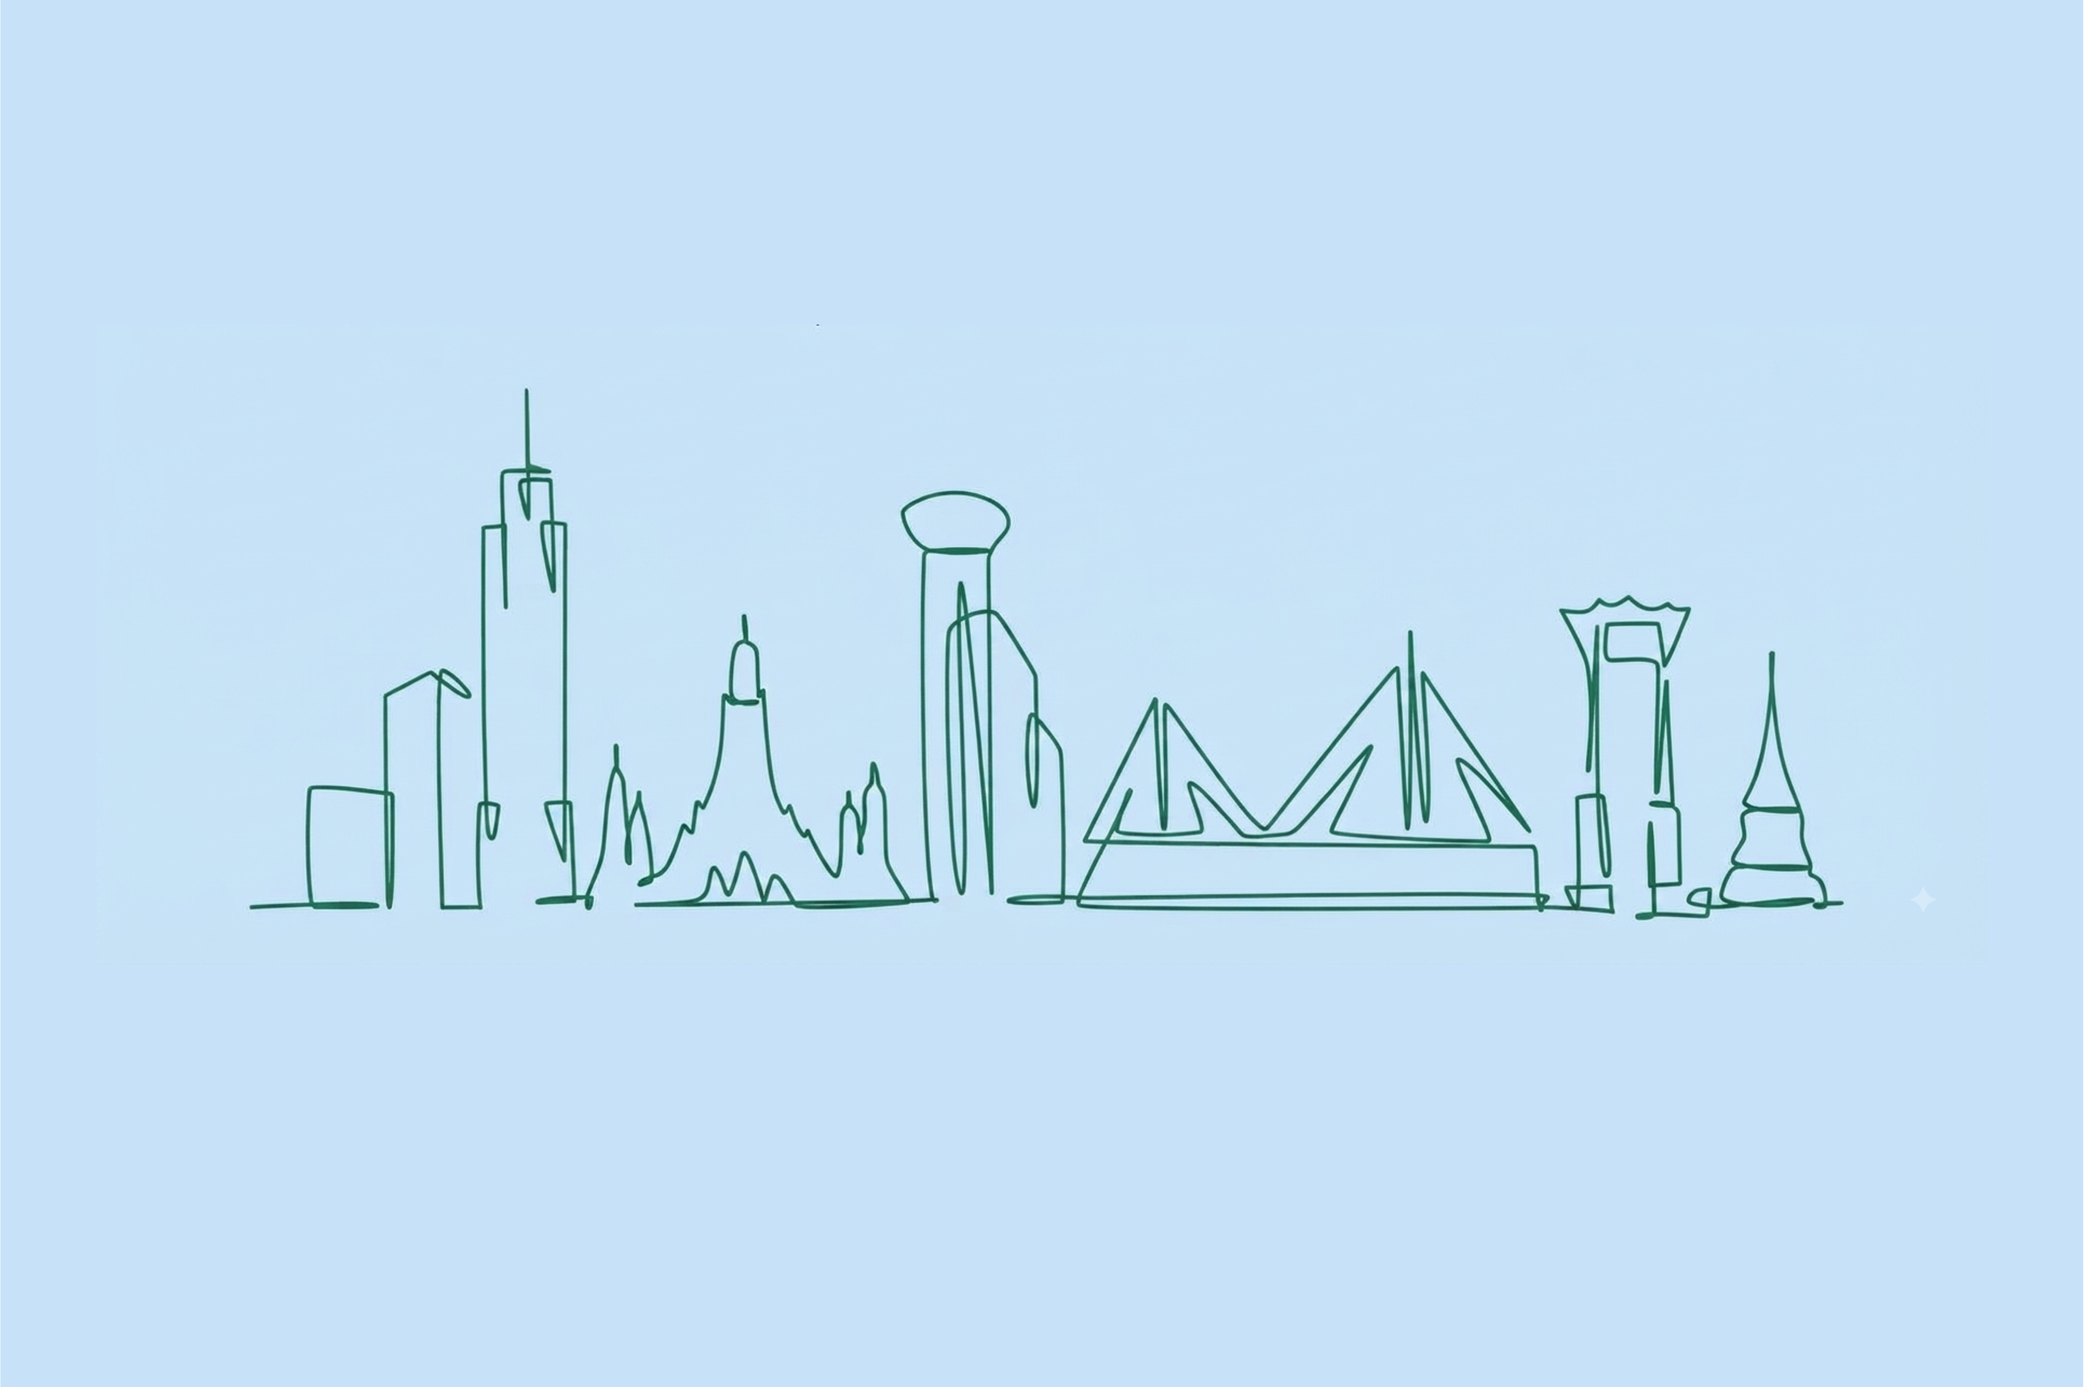
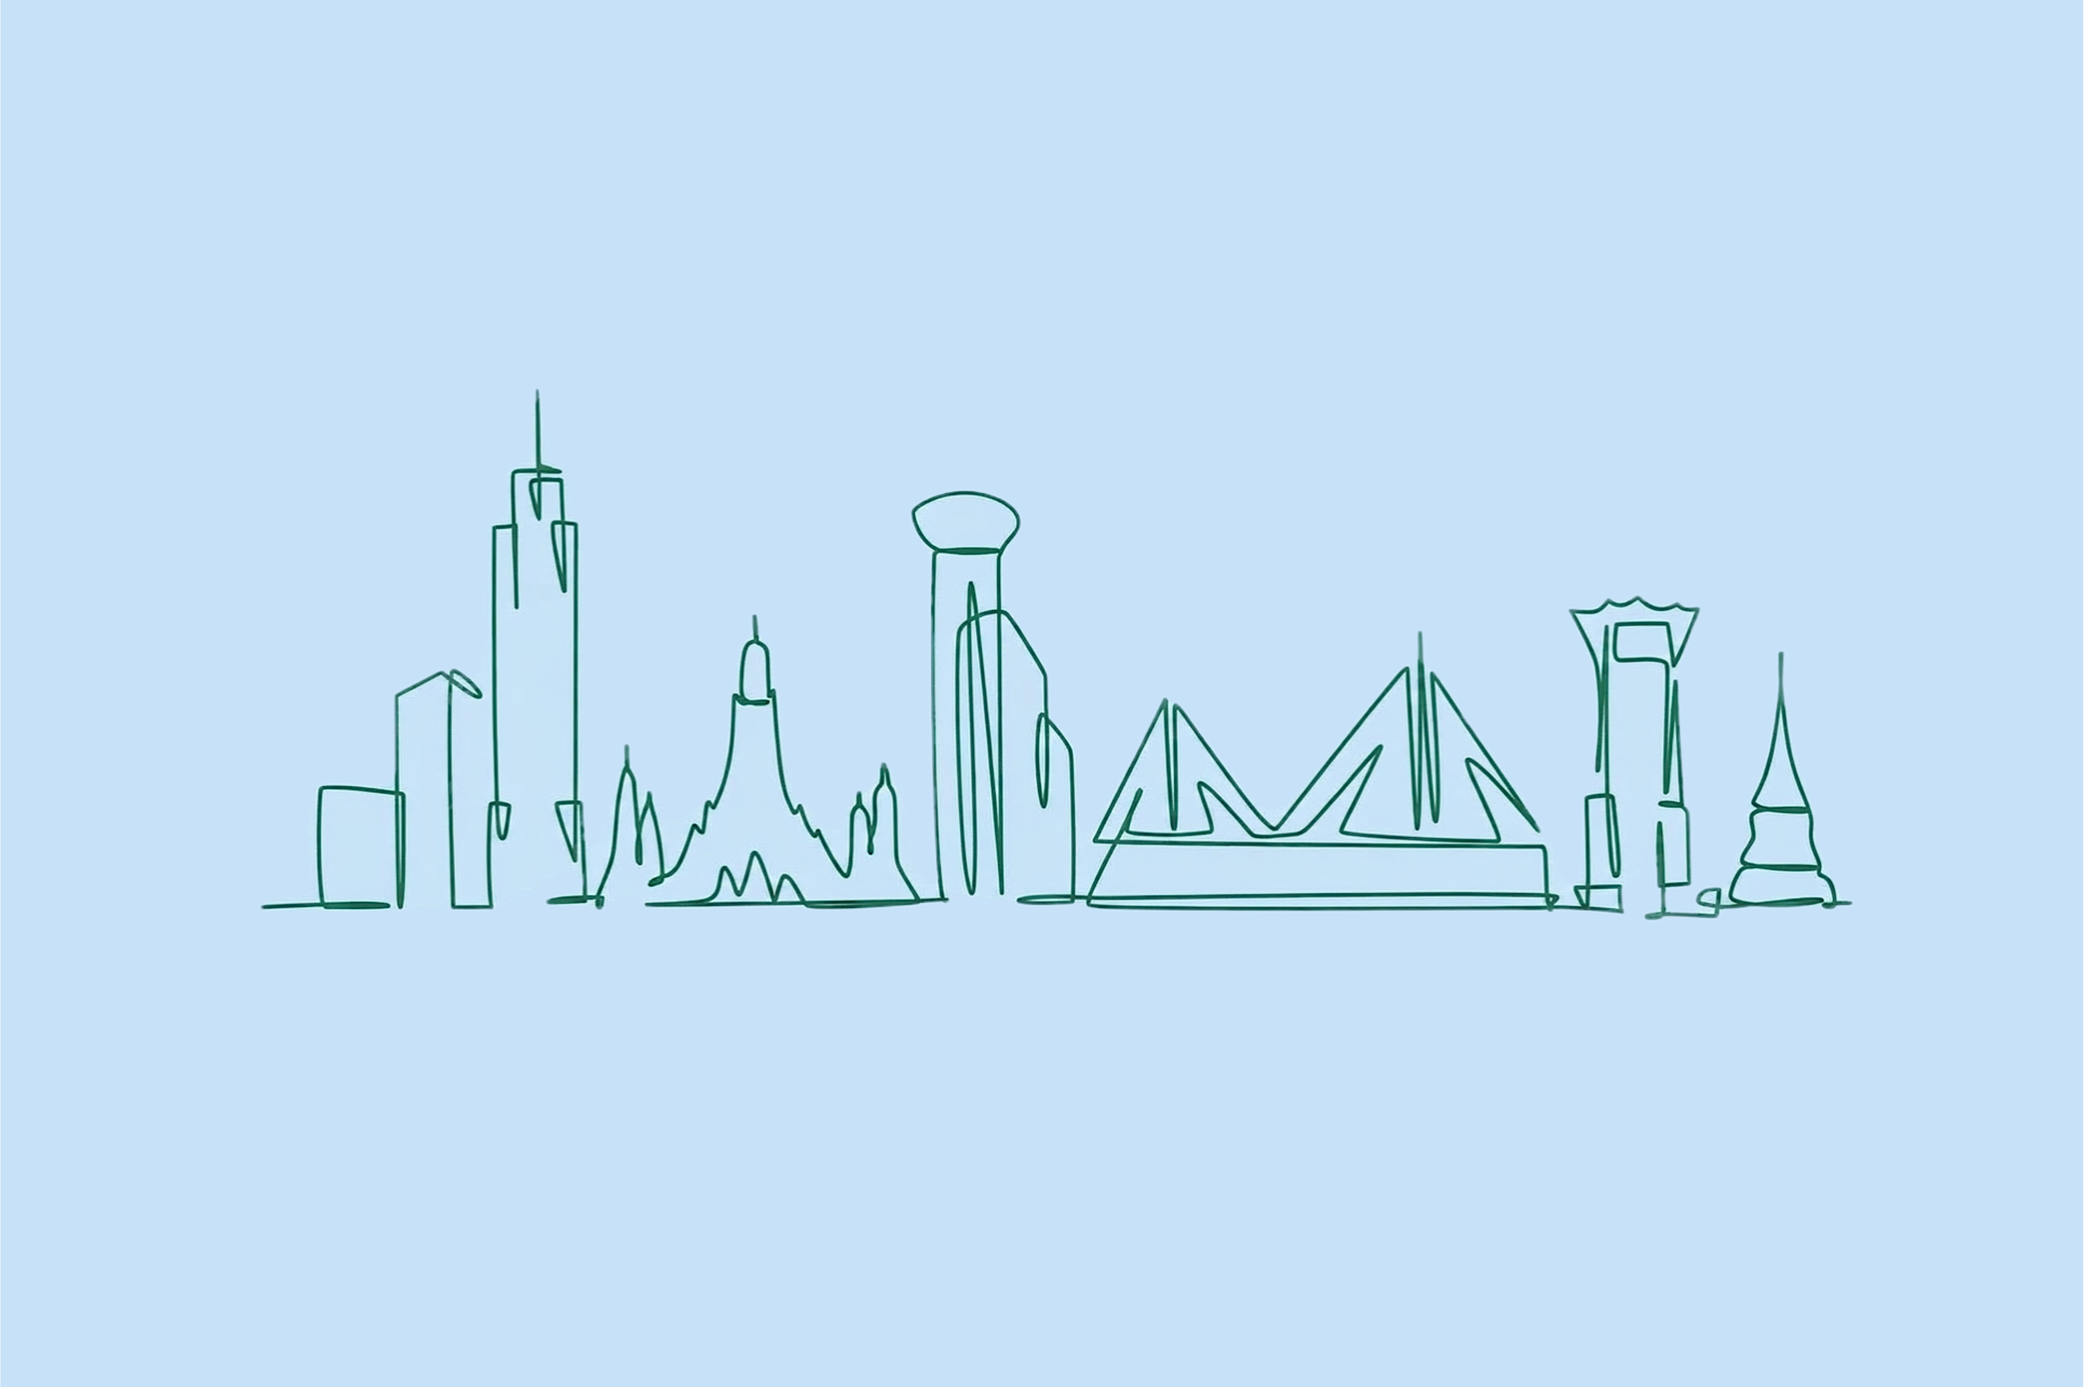
IN BKK 페이지 추가 + 홈 스카이라인 이미지 교체
- in-bkk.html: FLIGHTS / WEATHER / PLACES / PHRASES 4개 섹션
  - WEATHER: Open-Meteo 방콕 실시간 72시간 (기온+강수확률)
  - PHRASES: 태국어 38구문, 6카테고리 필터 + 검색
  - FLIGHTS / PLACES: 데이터 대기 상태로 구조만
- index.html: 네비에 IN BKK 복원
- bangkok-skyline.png: bangkok_2.png 로 교체 (동일 3721x2475)

Changed region(s): [[0.1247, 0.28, 0.9041, 0.6844]]

diff --git a/public/in-bkk.html b/public/in-bkk.html
@@ -1,0 +1,318 @@
+<!DOCTYPE html>
+<html lang="ko">
+<head>
+<meta charset="UTF-8">
+<meta name="viewport" content="width=device-width, initial-scale=1.0">
+<title>IN BKK — BANGKOK FIELD GUIDE</title>
+<style>
+* { margin:0; padding:0; box-sizing:border-box; }
+body {
+    background:#C8E2F9; color:#000;
+    font-family:'Courier New',Courier,monospace;
+    padding:34px 5% 80px; max-width:1080px; margin:0 auto;
+    -webkit-text-size-adjust:100%;
+}
+.crumb { font-size:11px; letter-spacing:1.5px; text-transform:uppercase; margin-bottom:30px; }
+.crumb a { color:#000; text-decoration:none; border-bottom:2px solid #000; }
+.crumb a:hover { color:#146B43; border-color:#146B43; }
+.crumb i { font-style:normal; opacity:.4; margin:0 8px; }
+
+h1 {
+    font-family:Impact,'Arial Black',sans-serif; font-weight:900;
+    font-size:clamp(46px,9vw,88px); line-height:.92;
+    letter-spacing:-.05em; text-transform:uppercase;
+}
+h1 em { font-style:normal; color:#198353; }
+.tagline { margin-top:14px; font-size:13px; letter-spacing:1.5px; line-height:1.7; max-width:56ch; }
+
+/* 섹션 */
+section { margin-top:52px; }
+.sec-title {
+    font-family:Impact,'Arial Black',sans-serif; font-weight:900;
+    font-size:clamp(30px,6vw,50px); letter-spacing:-.04em;
+    text-transform:uppercase; line-height:1;
+}
+.sec-sub {
+    font-size:12px; letter-spacing:2px; text-transform:uppercase;
+    margin:8px 0 22px; padding-bottom:14px; border-bottom:3px solid #000;
+}
+a.sec-link { text-decoration:none; color:#000; display:inline-block; }
+a.sec-link:hover .sec-title { color:#146B43; }
+
+/* 카드 */
+.card { background:rgba(255,255,255,.7); border:3px solid #000; padding:24px; }
+.grid2 { display:grid; grid-template-columns:repeat(auto-fit,minmax(300px,1fr)); gap:20px; }
+
+/* FLIGHTS */
+.leg-label {
+    display:inline-block; background:#000; color:#FFF;
+    font-family:'Arial Black',sans-serif; font-size:11px;
+    letter-spacing:2px; padding:6px 11px; margin-bottom:14px;
+}
+.leg-row { display:flex; justify-content:space-between; gap:12px; padding:8px 0; border-bottom:1px dashed rgba(0,0,0,.25); font-size:12.5px; }
+.leg-row:last-child { border-bottom:none; }
+.leg-row b { font-weight:700; }
+.leg-time { font-family:Impact,'Arial Black',sans-serif; font-size:26px; letter-spacing:-.02em; line-height:1.1; margin-top:12px; }
+
+/* 대기 상태 */
+.pending {
+    border:3px dashed #000; background:rgba(255,255,255,.4);
+    padding:20px; font-size:12.5px; line-height:1.75;
+}
+.pending b { font-family:'Arial Black',sans-serif; font-size:11px; letter-spacing:1.5px; display:block; margin-bottom:7px; }
+.pending code { background:#000; color:#FFF; padding:1px 5px; font-size:11px; }
+
+/* WEATHER */
+.chart-wrap { background:rgba(255,255,255,.7); border:3px solid #000; padding:18px; height:340px; }
+.chart-note { font-size:11px; letter-spacing:1px; margin-top:9px; opacity:.8; }
+
+/* PHRASES */
+.tools { display:flex; flex-wrap:wrap; gap:10px; align-items:center; margin-bottom:18px; }
+.search {
+    flex:1 1 220px; border:3px solid #000; background:rgba(255,255,255,.8);
+    padding:11px 13px; font-family:'Courier New',monospace; font-size:13px;
+}
+.search:focus { outline:3px solid #198353; outline-offset:2px; }
+.fbtns { display:flex; flex-wrap:wrap; gap:8px; }
+.fbtn {
+    border:3px solid #000; background:rgba(255,255,255,.6);
+    font-family:'Arial Black',sans-serif; font-size:10.5px; letter-spacing:1.2px;
+    text-transform:uppercase; padding:9px 12px; cursor:pointer; transition:all .2s;
+}
+.fbtn:hover { background:#000; color:#FFF; }
+.fbtn.active { background:#000; color:#FFF; }
+
+.plist { display:grid; grid-template-columns:repeat(auto-fit,minmax(300px,1fr)); gap:16px; }
+.ph {
+    background:rgba(255,255,255,.7); border:3px solid #000; padding:18px;
+    transition:transform .2s ease, box-shadow .2s ease;
+}
+.ph:hover { transform:translateY(-3px); box-shadow:6px 6px 0 #000; }
+.ph .th {
+    font-family:"Noto Serif Thai","Thonburi","Sukhumvit Set",Georgia,serif;
+    font-size:23px; line-height:1.4; color:#146B43;
+}
+.ph .ko { font-size:13.5px; font-weight:700; margin-top:7px; letter-spacing:.3px; }
+.ph .rm { font-size:11.5px; opacity:.7; margin-top:3px; letter-spacing:.5px; }
+.ph .cat {
+    display:inline-block; margin-top:11px; border:2px solid #000;
+    font-size:9.5px; letter-spacing:1.2px; text-transform:uppercase; padding:3px 7px;
+}
+.count { font-size:11px; letter-spacing:1.5px; margin-bottom:14px; opacity:.8; }
+.empty { grid-column:1/-1; padding:26px; text-align:center; font-size:13px; border:3px dashed #000; }
+
+.source { margin-top:52px; font-size:11px; line-height:1.85; letter-spacing:.8px; border-top:3px solid #000; padding-top:18px; opacity:.85; }
+.source a { color:#146B43; }
+
+@media (max-width:768px) {
+    body { padding:26px 5% 60px; }
+    .chart-wrap { height:280px; }
+    .plist, .grid2 { grid-template-columns:1fr; }
+}
+</style>
+</head>
+<body>
+
+<div class="crumb">
+    THAILAND <i>/</i> BANGKOK <i>/</i> <a href="index.html">FIELD GUIDE</a> <i>/</i> IN BKK
+</div>
+
+<h1>IN<br><em>BKK</em></h1>
+<p class="tagline">항공 · 날씨 · 장소 · 태국어. 현지에서 열어보는 페이지다.</p>
+
+<!-- ================= FLIGHTS ================= -->
+<section>
+    <h2 class="sec-title">Flights</h2>
+    <p class="sec-sub">2026.9.26 – 10.1</p>
+    <div class="pending">
+        <b>항공편 정보 대기</b>
+        예약하신 편명·시간을 알려주시면 채워 넣는다. 필요한 것: <code>항공사</code> <code>편명</code> <code>날짜</code> <code>출발-도착 시각</code> (가는 편/오는 편 각각).
+    </div>
+</section>
+
+<!-- ================= WEATHER ================= -->
+<section>
+    <h2 class="sec-title">Weather</h2>
+    <p class="sec-sub">방콕 실시간 72시간 예보</p>
+    <div class="chart-wrap"><canvas id="wx"></canvas></div>
+    <p class="chart-note" id="wxNote">불러오는 중…</p>
+</section>
+
+<!-- ================= PLACES ================= -->
+<section>
+    <h2 class="sec-title">Places</h2>
+    <p class="sec-sub">가볼 곳</p>
+    <div class="pending">
+        <b>장소 목록 대기</b>
+        Google My Maps에 가볼 곳을 모아두면 그대로 페이지로 옮긴다.<br>
+        My Maps에서 목록을 만들고 <code>KML 내보내기</code> → <code>bangkokagent/mapinfo/</code> 에 넣어주면
+        검색·카테고리 필터가 붙은 목록으로 만든다. 이 프로젝트에 <code>kml-integrator</code> 스킬이 그 용도로 이미 있다.
+    </div>
+</section>
+
+<!-- ================= PHRASES ================= -->
+<section>
+    <h2 class="sec-title">Phrases</h2>
+    <p class="sec-sub">급할 때 쓰는 태국어</p>
+
+    <div class="tools">
+        <input class="search" id="q" type="search" placeholder="한국어 · 태국어 · 발음 검색" aria-label="구문 검색">
+        <div class="fbtns" id="cats"></div>
+    </div>
+    <div class="count" id="cnt"></div>
+    <div class="plist" id="list"></div>
+</section>
+
+<p class="source">
+    날씨는 <a href="https://open-meteo.com/" target="_blank" rel="noopener noreferrer">Open-Meteo</a> 무료 API의 방콕(13.7563, 100.5018) 실시간 예보다. 페이지를 열 때마다 새로 불러온다.<br>
+    태국어 구문은 직접 작성했다 — 공식 출처를 인용한 것이 아니므로, 현지인에게 보여줄 용도라면 한 번 검수받는 편이 안전하다.<br>
+    긴급 상황 번호와 문구는 <a href="emergency.html">EMERGENCY</a>, 준비물은 <a href="checklist.html">CHECKLIST</a>, 러닝 코스는 <a href="run-tracks.html">RUN TRACKS</a>에 있다.
+</p>
+
+<script src="https://cdn.jsdelivr.net/npm/chart.js@4.4.1/dist/chart.umd.min.js"></script>
+<script>
+/* ---------------- PHRASES ---------------- */
+const PH = [
+  { th:'สวัสดีครับ / ค่ะ', rm:'sawatdee khrap / kha', ko:'안녕하세요', cat:'인사' },
+  { th:'ขอบคุณครับ / ค่ะ', rm:'khopkhun khrap / kha', ko:'감사합니다', cat:'인사' },
+  { th:'ขอโทษครับ / ค่ะ', rm:'khothot khrap / kha', ko:'죄송합니다 / 저기요', cat:'인사' },
+  { th:'ไม่เป็นไร', rm:'mai pen rai', ko:'괜찮아요', cat:'인사' },
+  { th:'ไม่เข้าใจ', rm:'mai khao chai', ko:'이해하지 못했어요', cat:'인사' },
+  { th:'พูดอังกฤษได้ไหม', rm:'phut angkrit dai mai', ko:'영어 하실 수 있나요?', cat:'인사' },
+
+  { th:'เอาอันนี้', rm:'ao an nee', ko:'이거 주세요', cat:'주문' },
+  { th:'ไม่เผ็ด', rm:'mai phet', ko:'안 맵게 해주세요', cat:'주문' },
+  { th:'เผ็ดน้อย', rm:'phet noi', ko:'조금만 맵게', cat:'주문' },
+  { th:'ไม่ใส่ผักชี', rm:'mai sai phak chi', ko:'고수 넣지 마세요', cat:'주문' },
+  { th:'น้ำเปล่า', rm:'nam plao', ko:'생수', cat:'주문' },
+  { th:'ไม่ใส่น้ำแข็ง', rm:'mai sai nam khaeng', ko:'얼음 빼주세요', cat:'주문' },
+  { th:'อร่อย', rm:'aroi', ko:'맛있어요', cat:'주문' },
+  { th:'เช็คบิล', rm:'chek bin', ko:'계산서 주세요', cat:'주문' },
+
+  { th:'เท่าไหร่', rm:'tao rai', ko:'얼마예요?', cat:'계산' },
+  { th:'แพงเกินไป', rm:'phaeng koen pai', ko:'너무 비싸요', cat:'계산' },
+  { th:'ลดได้ไหม', rm:'lot dai mai', ko:'깎아 주실 수 있나요?', cat:'계산' },
+  { th:'จ่ายบัตรได้ไหม', rm:'chai bat dai mai', ko:'카드로 결제 되나요?', cat:'계산' },
+  { th:'เงินสด', rm:'ngoen sot', ko:'현금', cat:'계산' },
+  { th:'ขอใบเสร็จ', rm:'kho bai set', ko:'영수증 주세요', cat:'계산' },
+
+  { th:'ไปที่นี่', rm:'pai thi nee', ko:'여기로 가주세요', cat:'이동' },
+  { th:'กดมิเตอร์ด้วย', rm:'kot mitoe duai', ko:'미터기 켜주세요', cat:'이동' },
+  { th:'จอดที่นี่', rm:'chot thi nee', ko:'여기서 세워주세요', cat:'이동' },
+  { th:'สถานีรถไฟฟ้า', rm:'sathanee rot fai fa', ko:'전철역 (BTS/MRT)', cat:'이동' },
+  { th:'สนามบิน', rm:'sanam bin', ko:'공항', cat:'이동' },
+  { th:'ไกลไหม', rm:'klai mai', ko:'먼가요?', cat:'이동' },
+  { th:'ห้องน้ำอยู่ไหน', rm:'hong nam yu nai', ko:'화장실 어디예요?', cat:'이동' },
+
+  { th:'มีไซส์อื่นไหม', rm:'mee size uen mai', ko:'다른 사이즈 있나요?', cat:'쇼핑' },
+  { th:'ลองได้ไหม', rm:'long dai mai', ko:'입어봐도 되나요?', cat:'쇼핑' },
+  { th:'ขอถุง', rm:'kho thung', ko:'봉투 주세요', cat:'쇼핑' },
+  { th:'ดูก่อนนะ', rm:'du kon na', ko:'좀 볼게요', cat:'쇼핑' },
+
+  { th:'ช่วยด้วย', rm:'chuay duay', ko:'도와주세요', cat:'긴급' },
+  { th:'เรียกรถพยาบาล', rm:'riak rot phayaban', ko:'구급차를 불러주세요', cat:'긴급' },
+  { th:'โรงพยาบาล', rm:'rong phayaban', ko:'병원', cat:'긴급' },
+  { th:'ตำรวจ', rm:'tamruat', ko:'경찰', cat:'긴급' },
+  { th:'ผมเป็นคนเกาหลี', rm:'phom pen khon kaoli', ko:'저는 한국인입니다', cat:'긴급' },
+  { th:'แพ้ยา', rm:'phae ya', ko:'약 알레르기가 있어요', cat:'긴급' },
+  { th:'หลงทาง', rm:'long thang', ko:'길을 잃었어요', cat:'긴급' }
+];
+
+(function () {
+  const list = document.getElementById('list');
+  const cnt  = document.getElementById('cnt');
+  const q    = document.getElementById('q');
+  const cats = document.getElementById('cats');
+  const all  = ['전체', ...[...new Set(PH.map(p => p.cat))]];
+  let active = '전체';
+
+  all.forEach(c => {
+    const b = document.createElement('button');
+    b.className = 'fbtn' + (c === '전체' ? ' active' : '');
+    b.textContent = c;
+    b.addEventListener('click', () => {
+      active = c;
+      [...cats.children].forEach(x => x.classList.toggle('active', x === b));
+      render();
+    });
+    cats.appendChild(b);
+  });
+
+  function render() {
+    const s = q.value.trim().toLowerCase();
+    const rows = PH.filter(p =>
+      (active === '전체' || p.cat === active) &&
+      (!s || (p.ko + p.th + p.rm).toLowerCase().includes(s))
+    );
+    cnt.textContent = `${rows.length} / ${PH.length} 구문`;
+    list.innerHTML = rows.length
+      ? rows.map(p => `<div class="ph">
+          <div class="th">${p.th}</div>
+          <div class="ko">${p.ko}</div>
+          <div class="rm">${p.rm}</div>
+          <div class="cat">${p.cat}</div>
+        </div>`).join('')
+      : '<div class="empty">검색 결과가 없다.</div>';
+  }
+  q.addEventListener('input', render);
+  render();
+})();
+
+/* ---------------- WEATHER ---------------- */
+(async function () {
+  const LAT = 13.7563, LON = 100.5018;
+  const note = document.getElementById('wxNote');
+  try {
+    const url = `https://api.open-meteo.com/v1/forecast?latitude=${LAT}&longitude=${LON}`
+              + `&hourly=temperature_2m,precipitation_probability&timezone=Asia/Bangkok&forecast_days=3`;
+    const r = await fetch(url);
+    const d = await r.json();
+    if (!d.hourly) throw new Error('bad response');
+
+    const h = d.hourly;
+    const labels = h.time.slice(0, 72).map(t => {
+      const dt = new Date(t);
+      return `${dt.getMonth() + 1}/${dt.getDate()} ${String(dt.getHours()).padStart(2, '0')}시`;
+    });
+    const temp = h.temperature_2m.slice(0, 72);
+    const prec = h.precipitation_probability.slice(0, 72);
+
+    new Chart(document.getElementById('wx'), {
+      type: 'line',
+      data: {
+        labels,
+        datasets: [
+          { label: '기온 (°C)', data: temp, borderColor: '#198353', backgroundColor: 'rgba(25,131,83,.12)',
+            borderWidth: 2.5, pointRadius: 0, tension: .3, fill: true, yAxisID: 'y' },
+          { label: '강수확률 (%)', data: prec, borderColor: '#000', borderWidth: 1.8,
+            borderDash: [5, 4], pointRadius: 0, tension: .3, yAxisID: 'y1' }
+        ]
+      },
+      options: {
+        responsive: true, maintainAspectRatio: false,
+        interaction: { mode: 'index', intersect: false },
+        plugins: {
+          legend: { labels: { font: { family: "'Courier New',monospace", size: 11 }, boxWidth: 14 } },
+          tooltip: { titleFont: { family: "'Courier New',monospace" }, bodyFont: { family: "'Courier New',monospace" } }
+        },
+        scales: {
+          x: { ticks: { font: { family: "'Courier New',monospace", size: 9 }, maxTicksLimit: 12 }, grid: { display: false } },
+          y:  { position: 'left',  title: { display: true, text: '°C', font: { family: "'Courier New',monospace" } },
+                ticks: { font: { family: "'Courier New',monospace", size: 10 } } },
+          y1: { position: 'right', min: 0, max: 100, grid: { drawOnChartArea: false },
+                title: { display: true, text: '%', font: { family: "'Courier New',monospace" } },
+                ticks: { font: { family: "'Courier New',monospace", size: 10 } } }
+        }
+      }
+    });
+
+    const tmin = Math.min(...temp), tmax = Math.max(...temp), pmax = Math.max(...prec);
+    note.textContent = `앞으로 72시간 · 기온 ${tmin}–${tmax}°C · 최고 강수확률 ${pmax}% · Open-Meteo`;
+  } catch (e) {
+    note.textContent = '날씨를 불러오지 못했다. 네트워크를 확인하고 새로고침.';
+  }
+})();
+</script>
+
+</body>
+</html>

diff --git a/public/index.html b/public/index.html
@@ -315,6 +315,7 @@
     <!-- Navigation Menu - Top Left -->
     <nav class="nav-menu">
         <a href="run-tracks.html">RUN TRACKS</a>
+        <a href="in-bkk.html">IN BKK</a>
         <a href="checklist.html">CHECKLIST</a>
         <a href="emergency.html">EMERGENCY</a>
     </nav>
